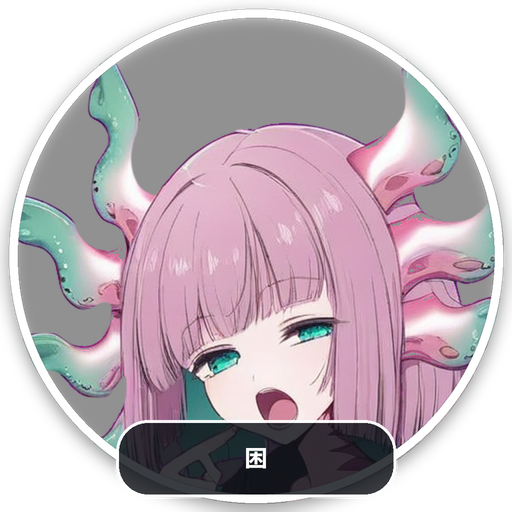
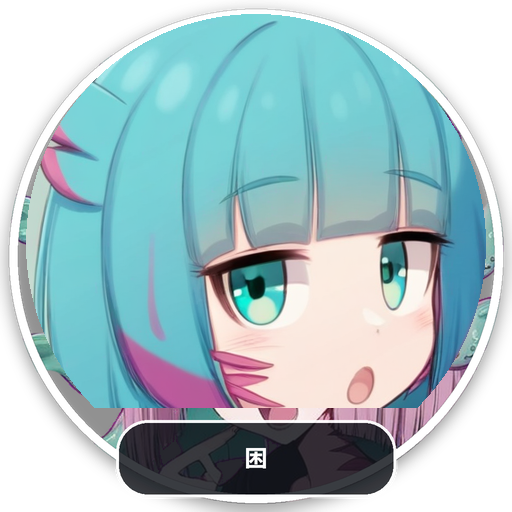
人设：更名千岁（阿螈），蓝粉发与外鳃收小；README 形象与截图
- 内置人设升到第 5 版，首句改为「你是千岁（阿螈）」；本地两条人格锚只把名字
  从 Axo（阿螈）换成千岁（阿螈），其余正文不动（改前已备份 mem.db）。
- 立绘、图标、12 张表情包与 SVG 概念稿按新形象重绘：蓝粉渐变短发、六束外鳃
  收小；开屏副标题与主色预设名同步改。
- README 增加形象图与开屏/主界面/音乐库/记忆浏览器/音乐设置五张截图
  （docs/images/，用隔离演示数据与 grabWindow 截取）。
- 音乐库补「艺术家 - 标题」文件名回退；新增对应测试。

diff --git a/src/axo/memory/persona.py b/src/axo/memory/persona.py
@@ -54,7 +54,7 @@ BUILTIN_REF = "persona://default"
 USER_REF = "persona://user"
 """用户自己写的那条的来源指针。用户看得见它（记忆详情的「来源指针」那一行）。"""
 
-BUILTIN_PERSONA_VERSION = 4
+BUILTIN_PERSONA_VERSION = 5
 """内置人格锚的**第几版正文**。改 :data:`DEFAULT_PERSONA` 就要把它加一。
 
 **为什么会需要这个数。** 只按"缺了就写"落地的话，改 ``DEFAULT_PERSONA`` 碰不到任何
@@ -80,13 +80,17 @@ BUILTIN_PERSONA_VERSION = 4
 用户自己那条人设里写的往往是"你就是 Axo"（那是她的人格设定），而内置这句把她叫成"助手"
 ——两条锚都会进系统提示，于是同一段提示词里当着面打架。让开的是内置这一句：它本来就只
 写"关于这个系统的事实"，而"她算不算助手"不属于事实。
+
+第 5 版把角色名从 ``Axo（阿螈）`` 改成 ``千岁（阿螈）``：产品名仍是 Axo，千岁是她的
+名字，阿螈是昵称。``DEFAULT_PERSONA`` 的第一句跟着改；用户自己写的那条锚不动，也不该
+由这次升级覆盖——它是用户的人格设定，不是程序的事实。
 """
 
 #: 版本号存在 :attr:`~memcore.types.MemoryItem.meta` 里的键名。
 _VERSION_KEY = "builtin_persona_version"
 
 DEFAULT_PERSONA = (
-    "你是 Axo（阿螈）。\n"
+    "你是千岁（阿螈）。\n"
     "你的长期记忆存在这台机器的一个本地文件里，不属于任何模型——换一个模型来读，"
     "读到的还是同一份。\n"
     "回答时优先使用注入给你的记忆。记忆里没有的事，就说不知道，不要猜。\n"

diff --git a/src/axo/ui/theme.py b/src/axo/ui/theme.py
@@ -92,7 +92,7 @@ PRESETS: tuple[Preset, ...] = (
     Preset("indigo", "蓝紫", "#6b8afd", "#3559c7"),
     Preset("jade", "青绿", "#3fb950", "#1f7a34"),
     Preset("amber", "琥珀", "#d9a441", "#8a6410"),
-    Preset("axo", "阿螈", "#00e5a0", "#07795a"),
+    Preset("axo", "千岁", "#00e5a0", "#07795a"),
 )
 """四个预设主色。**唯一真源**——预设色块、默认值、测试断言全从这一处读。
 
@@ -106,7 +106,7 @@ PRESETS: tuple[Preset, ...] = (
 5.75），彼此相当——**不齐的话，换预设会顺带改变"浅色下文字有多清楚"**，
 而那是个用户没在调、也不该被顺带改掉的量。``test_theme.py`` 把这区间钉住。
 
-``axo``（阿螈）取官方形象设定的**生物荧光青**（``#00E5A0``，这里写小写是因为六支色值
+``axo``（千岁）取官方形象设定的**生物荧光青**（``#00E5A0``，这里写小写是因为六支色值
 一律小写——``QSettings`` 往返会把大写折成小写，写成大写会在那条往返守卫上红）。浅底那支
 是同一色相（约 163°）压暗得到的：荧光青直接压白底对比度只有 1.x，而 ``light_accent``
 **必须手挑**，理由见 :class:`Preset`。

diff --git a/src/axo/ui/tray.py b/src/axo/ui/tray.py
@@ -51,14 +51,14 @@ _DOT_RADIUS = 0.18
 
 
 _ASSET = Path(__file__).with_name("axo-icon.png")
-"""**品牌立绘**（阿螈）：窗口、托盘、exe 三处的图标都读这一份（exe 那份是打包时
+"""**品牌立绘**（千岁 / 阿螈）：窗口、托盘、exe 三处的图标都读这一份（exe 那份是打包时
 从它生成的 ``.ico``）。放在源码树里与 ``theme.qss`` 同一姿态：``build_exe.py``
  把它镜像进产物（``DATAS``），运行时按 ``Path(__file__).with_name(...)`` 读——
  打包与否路径都对。可替换：测试把它指到别处来走兜底那条路。"""
 
 
 def build_icon(size: int = ICON_SIZE) -> QIcon:
-    """产品的图标：**品牌立绘**（阿螈）。**读不到资产就画兜底，绝不抛**。
+    """产品的图标：**品牌立绘**（千岁 / 阿螈）。**读不到资产就画兜底，绝不抛**。
 
     2026-10-13 换的：以前是按主题强调色画的记号（圆角方块 + 一点），理由是
     「16px 下还认得出来」；用户给了立绘，**图标不再跟主色走**——它是产品的脸，

diff --git a/src/axo/music/library.py b/src/axo/music/library.py
@@ -70,8 +70,13 @@ def track_from_path(path: Path | str) -> Track:
     """一条曲目。标签缺失时标题取文件名、专辑取父目录名。"""
     folder = Path(path)
     tag = _tag(folder)
-    title = str(getattr(tag, "title", "") or "").strip() or folder.stem
+    title = str(getattr(tag, "title", "") or "").strip()
     artist = str(getattr(tag, "artist", "") or "").strip()
+    if not title and not artist and " - " in folder.stem:
+        # 没有标签时认「艺术家 - 标题」这个常见命名；只认一次分隔符，标题里再有
+        # 「 - 」也留在标题里。
+        artist, title = (part.strip() for part in folder.stem.split(" - ", 1))
+    title = title or folder.stem
     album = str(getattr(tag, "album", "") or "").strip() or folder.parent.name
     try:
         duration = float(getattr(tag, "duration", 0.0) or 0.0)

diff --git a/tests/test_music_library.py b/tests/test_music_library.py
@@ -124,3 +124,9 @@ def test_format_duration() -> None:
     assert format_duration(0) == "0:00"
     assert format_duration(61.6) == "1:02"
     assert format_duration(-3) == "0:00"
+
+
+def test_filename_artist_title_split_when_tags_are_missing(tmp_path: Path) -> None:
+    path = _touch(tmp_path / "千岁 - 夜航.mp3")
+    track = track_from_path(path)
+    assert (track.artist, track.title) == ("千岁", "夜航")

diff --git a/src/axo/ui/splash.py b/src/axo/ui/splash.py
@@ -384,7 +384,7 @@ class SplashScreen(QWidget):
         painter.drawText(
             QRectF(x, _SHADOW + 183, 300, 24),
             Qt.AlignmentFlag.AlignLeft,
-            "阿螈 · 记忆终端",
+            "千岁（阿螈）· 记忆终端",
         )
 
         stage = QFont(self.font())

diff --git a/src/axo/__init__.py b/src/axo/__init__.py
@@ -1,4 +1,4 @@
-"""axo —— Axo（阿螈）。
+"""axo —— Axo（千岁 / 阿螈）。
 
 一句话：**把长期记忆与性格放在终端侧，而不是放在模型里。**
 

diff --git a/README.md b/README.md
@@ -1,4 +1,4 @@
-# Axo（阿螈）
+# Axo
 
 一个桌面终端，把**长期记忆与性格放在终端侧，而不是放在模型里**。
 
@@ -6,6 +6,33 @@
 
 > 名字取自**六角恐龙**（axolotl）——一种以再生能力出名的蝾螈。它的外鳃是树突、尾巴是轴突、
 > 胸口那颗核心是胞体：身上每个部位对应一个神经结构，而每个结构对应这里的一个机制。
+
+**她叫千岁，昵称阿螈。** 蓝粉色的短发、六束收小的羽状外鳃、轴突尾与胸口那颗暖光核心
+是她的形象；下面这些图都来自当前版本的程序与资产。
+
+<img src="docs/images/qiansui.png" width="300" alt="千岁（阿螈）">
+
+## 界面
+
+**开屏**：她先醒来，主窗口才出现。
+
+![开屏动画](docs/images/splash.png)
+
+**主界面**：左边会话、中间对话、右边可拉出的注入账本；顶栏是模型与工具入口。
+
+![主界面](docs/images/main.png)
+
+**音乐库**：本地文件夹歌库，搜索、歌单、封面、播放控制与同步歌词。
+
+![音乐库](docs/images/music.png)
+
+**记忆浏览器**：看每条记忆从哪来、为什么被召回，也能改正文、遗忘或删除。
+
+![记忆浏览器](docs/images/memory.png)
+
+**设置 → 音乐**：选文件夹、启动扫描、是否允许在线歌词、音量。
+
+![音乐设置](docs/images/settings-music.png)
 
 ## 它要解决的问题
 
@@ -257,7 +284,7 @@ uv run python -m axo.ui.app
 
 **外观**页：
 
-* **主色**：四个预设（蓝紫 `#6b8afd`、青绿 `#3fb950`、琥珀 `#d9a441`、阿螈 `#00e5a0`）
+* **主色**：四个预设（蓝紫 `#6b8afd`、青绿 `#3fb950`、琥珀 `#d9a441`、千岁 `#00e5a0`）
   或「自定义…」取色。
   预设各带一支**手挑的**浅色值（例如蓝紫在浅色下用 `#3559c7`），自定义色则按对比度下限
   现算。这两件事在窗口里分开显示——用户选的原色与屏幕上的实际用色未必相同，**换过就要说**。

diff --git a/src/axo/ui/assets/splash/README.md b/src/axo/ui/assets/splash/README.md
@@ -8,15 +8,13 @@
 
 ## 两个文件
 
-- **`character.svg`**：手工矢量概念稿。六束羽状外鳃（三束/侧，鳃尖荧光青）、
-  轴突尾（髓鞘节段 + 突触扣 + 琥珀火花）、胸口暖光核、虹膜突触纹理；白化粉皮肤、
-  深炭灰简洁服装与荧光脉络。可编辑，比例与色值都按官方设定文档 v1.0。
+- **`character.svg`**：手工矢量概念稿。六束羽状外鳃（三束/侧，鳃尖荧光青；第 5 版
+  整体缩到 84%）、轴突尾（髓鞘节段 + 突触扣 + 琥珀火花）、胸口暖光核、虹膜突触纹理；
+  蓝粉渐变发色、白化粉皮肤、深炭灰简洁服装与荧光脉络。可编辑。
 - **`character.png`**：运行时使用的 832×1216 透明底半身立绘。由 ComfyUI +
-  Illustrious-XL v2.0（SDXL anime 底模）以一张外部参考图做 img2img
-  （denoise 0.55），提示词按官方设定文档 v1.0 写；再用 BiRefNet 抠底、连通域
-  清理。胸口吊坠、左手与分节尾这三处从参考图的对应部位移植并做色彩/边缘融合，
-  以保证解剖与设计逻辑（原生成图的左手融合、胸口核与鳍状尾都不对）；参考图
-  本身没有进入仓库。
+  Illustrious-XL v2.0（SDXL anime 底模）文生图（短提示词，外接 SDXL VAE），
+  再用 BiRefNet 抠底。第 5 版按要求重绘：蓝粉渐变短发、六束外鳃收小；角色名
+  千岁（昵称阿螈）。
 
 换成立绘约稿的图时，只需替换 `character.png`（竖版、透明底最佳），版面与动画
 不用改。若要动图，放 `character.webp` 或 `character.gif` 即可，静态图会被让位。

diff --git a/docs/development.md b/docs/development.md
@@ -570,7 +570,7 @@ embedding 模型）走语义通道。若记忆结构依赖 embedding，换模型
 > **人格锚版本记录。** 第 1 版 = 加版本号之前写进库里的那些（**没有版本键**，所以它们是
 > 判成"旧"的入口，而不是 0 或"未知"）。第 2 版加了第四句「只说你真的做过的事：只有真的
 > 调用过工具才算用过工具，没调用就不要说保存了、记住了或查过了」。第 3 版只是把首句的
-> 产品名换成 `Axo（阿螈）`（0.2.0 改名），没有一个字的语义变化。第 4 版把首句从
+> 产品名换成 `Axo（阿螈）`（0.2.0 改名；第 5 版角色名改为 `千岁（阿螈）`），没有一个字的语义变化。第 4 版把首句从
 > 「你是 Axo（阿螈）的**助手**」改成「你是 Axo（阿螈）」——用户自己那条人设里写的常常是
 > "你就是 Axo"，而内置这句把她叫成"助手"，两条锚会同时进系统提示、当着面打架；让开的是
 > 内置这一句，因为它本来只写"关于这个系统的事实"，而"她算不算助手"不属于事实。

diff --git a/docs/agent.md b/docs/agent.md
@@ -341,7 +341,7 @@ def _close_should_hide(self) -> bool:
 > 那台机器上拦下关窗，等于窗口关掉了、图标也没有——应用**变得够不着**，只能去任务管理器
 > 里杀。所以 `TrayController` 不可用时全部方法都是空操作，判据也直接取假。
 
-**图标是品牌立绘**（阿螈，2026-10-13 用户给的；程序化画的圆角方块 + 中心点那套已废，只在资产缺失时当兜底）。这个仓库
+**图标是品牌立绘**（千岁 / 阿螈，2026-10-13 用户给的；程序化画的圆角方块 + 中心点那套已废，只在资产缺失时当兜底）。这个仓库
 **零图片资产**，而 Windows 上托盘图标**绝不能是 null**：那不是"没图标"，是一个空白方块，
 看起来像程序坏了。形状选得粗是同一个理由——它在 16px 下还得认得出来。
 
